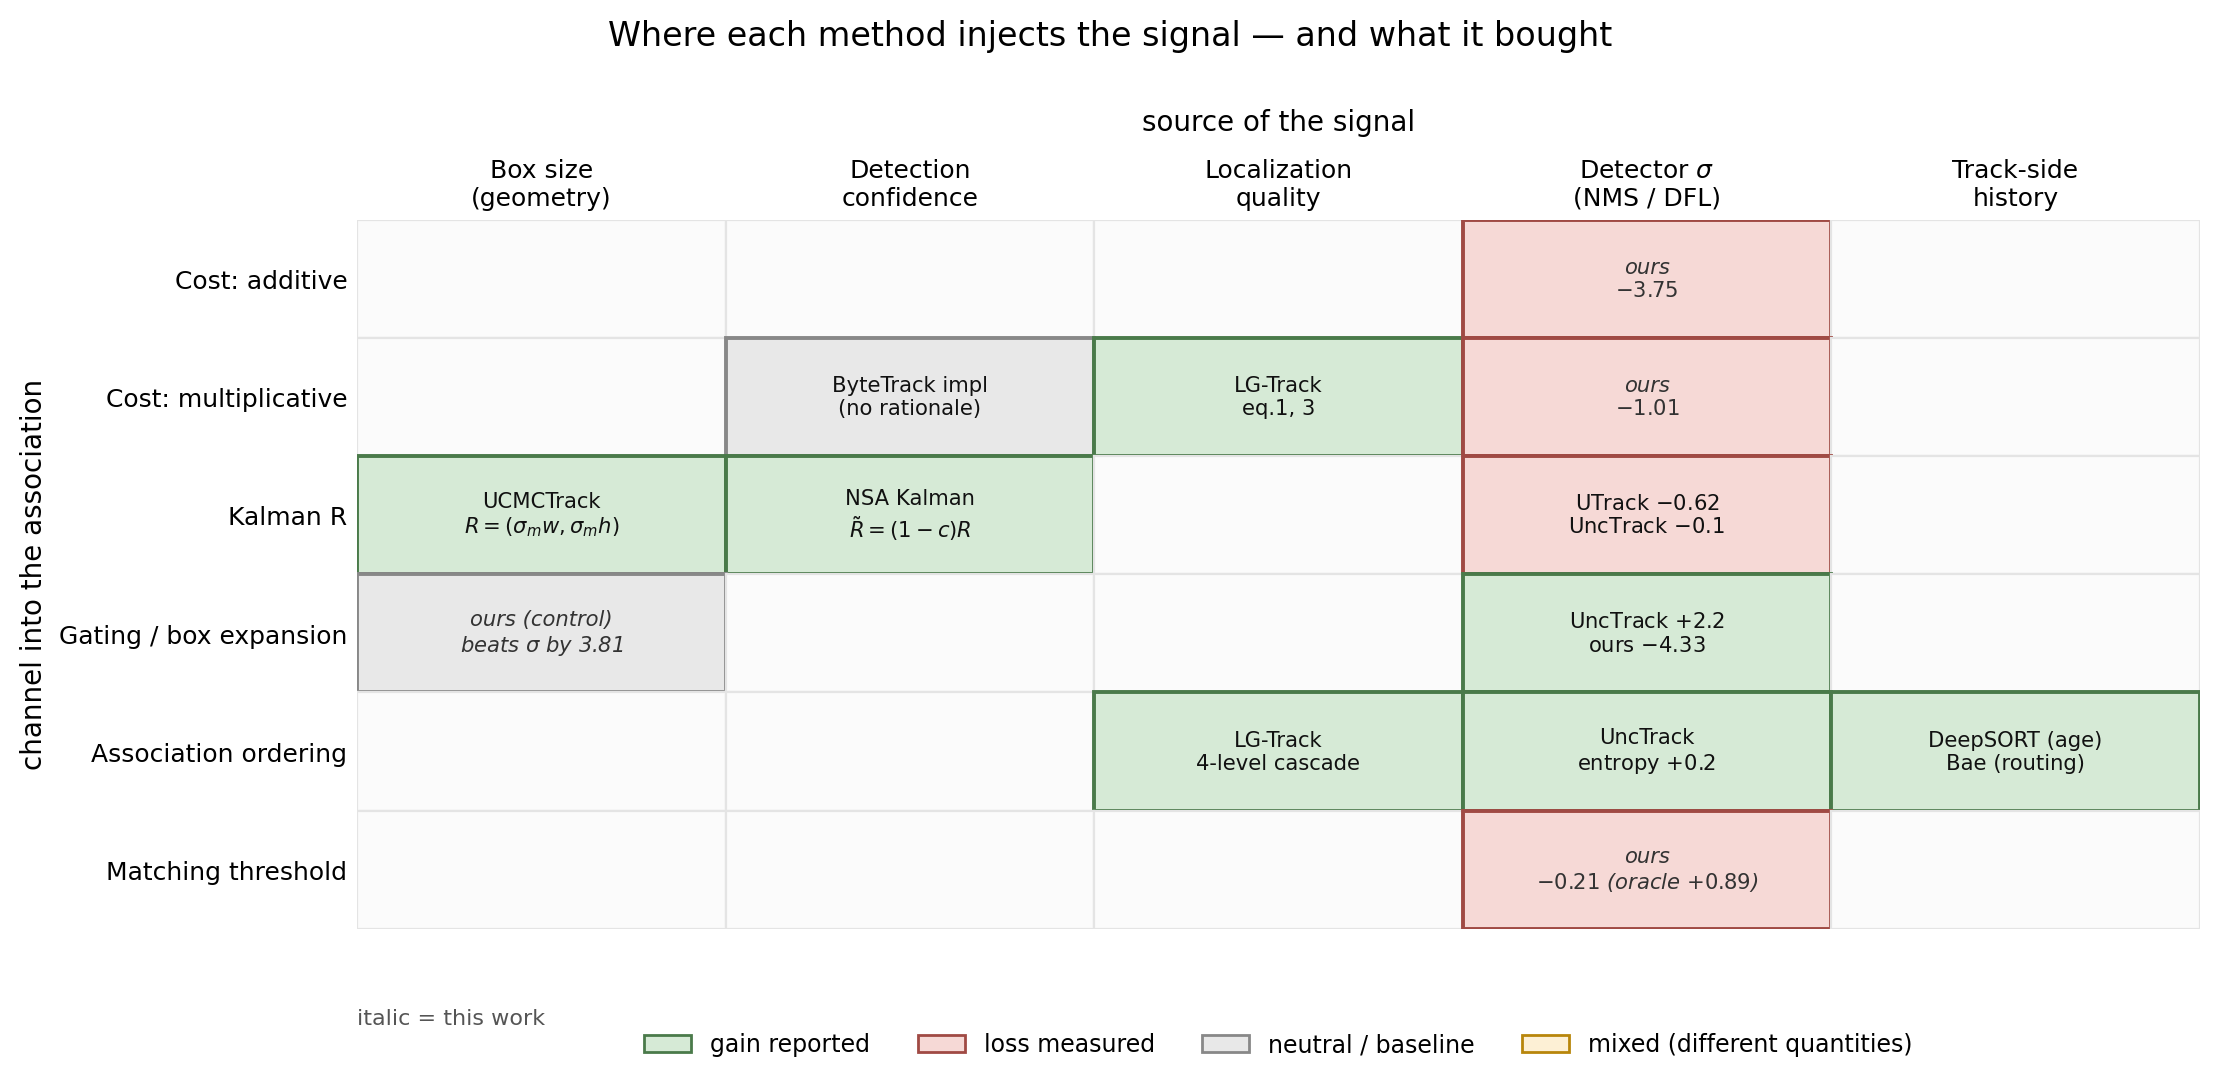
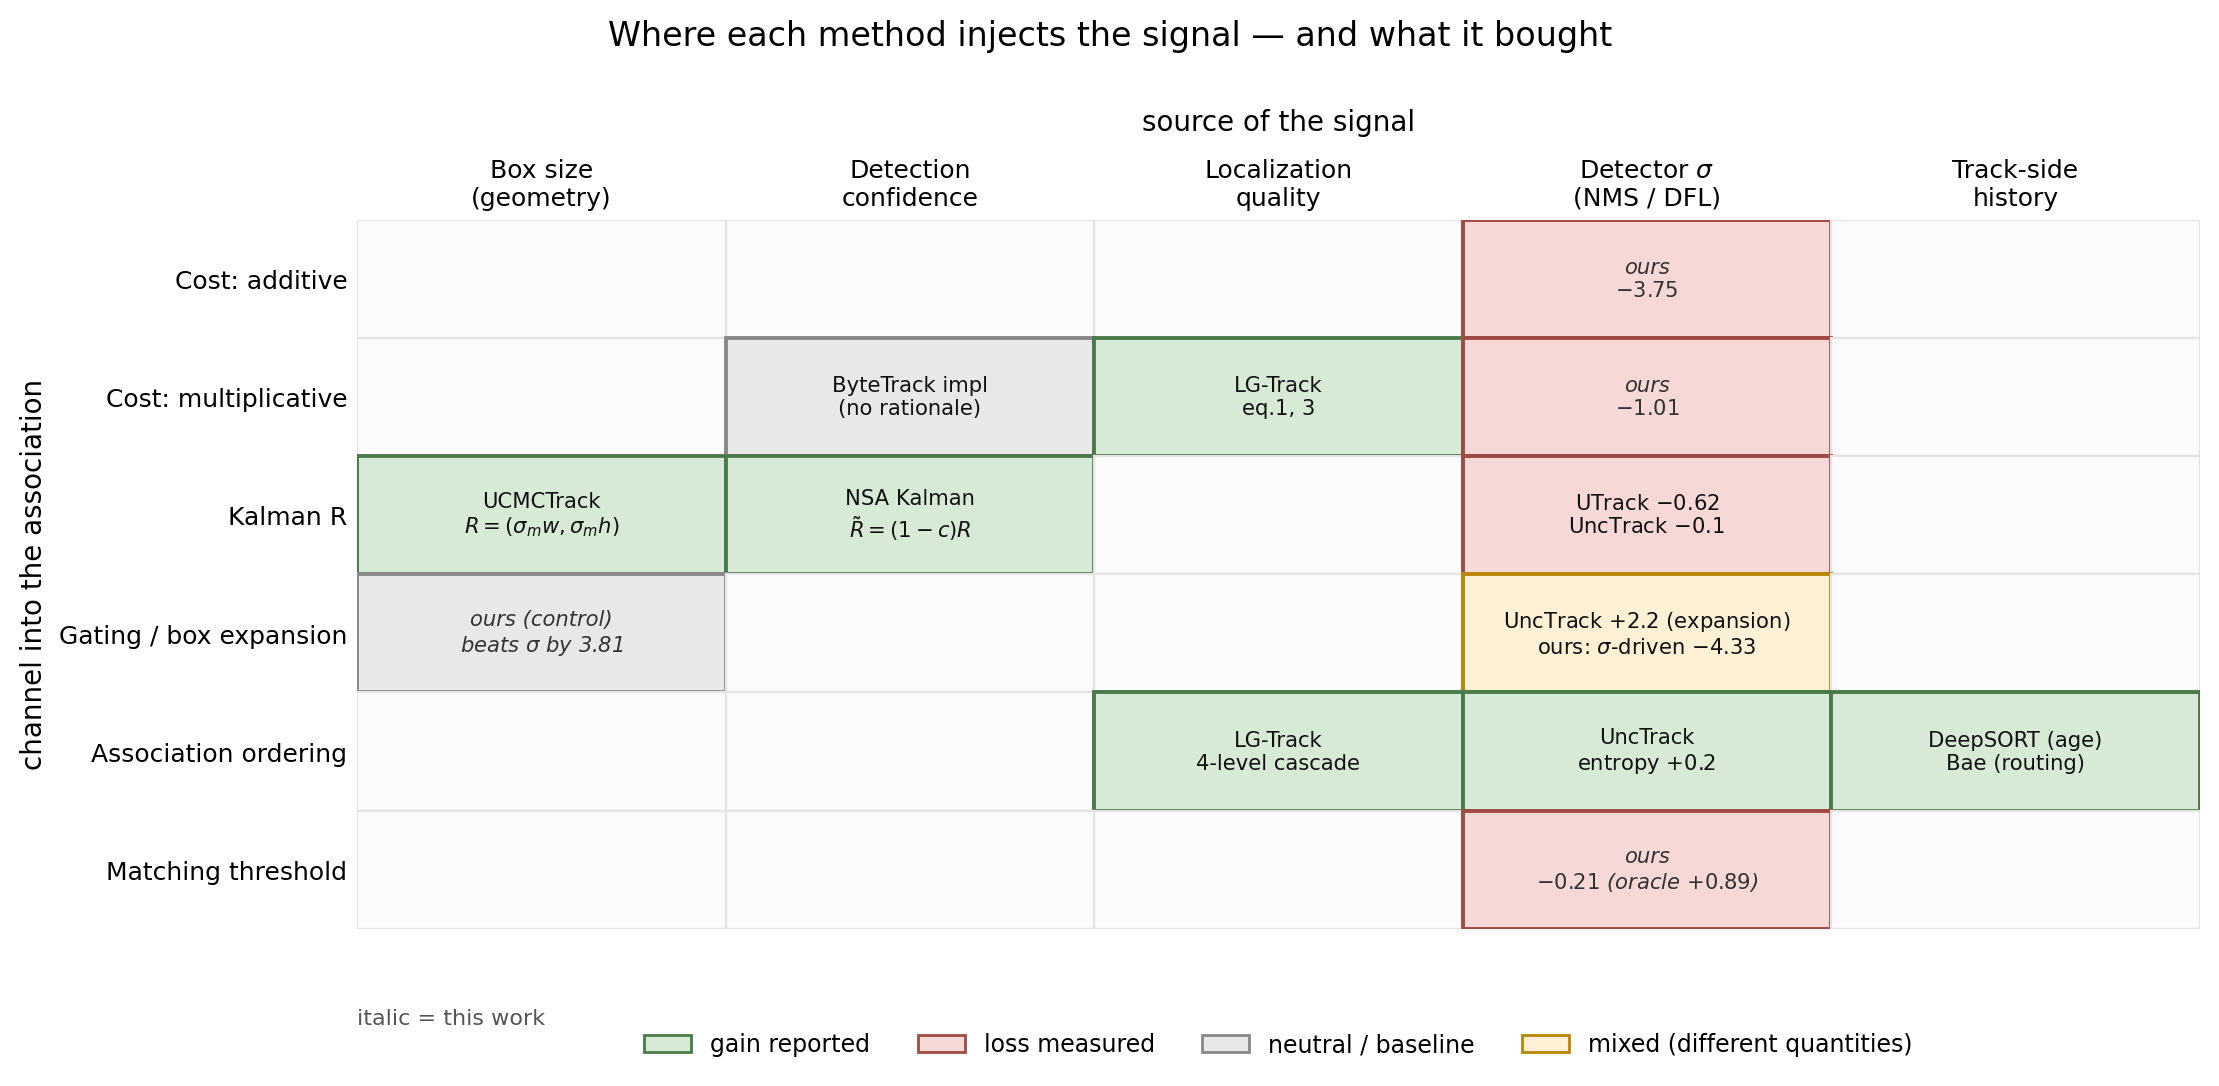
그림 1 정정 - 게이팅 x sigma 칸을 혼합으로 분리
UncTrack 의 +2.2 는 상자확장 전체의 이득이고 우리 -4.33 은 확장량을 맞췄을 때
sigma 로 정한 쪽이 크기로 정한 쪽보다 얼마나 나쁜가다. 다른 양을 한 칸에
초록으로 칠하면 "sigma 게이팅이 이득" 으로 읽힌다. 노란색 혼합 범주로 분리했다.

이스케이프 경고(\s)도 없앴다. -W error::SyntaxWarning 으로 확인.

Changed region(s): [[0.653, 0.5166, 0.8396, 0.6381]]

diff --git a/experiments/figures/fig_source_channel.py b/experiments/figures/fig_source_channel.py
@@ -53,7 +53,10 @@ CELLS = {
     (2, 1): ("NSA Kalman\n$\\tilde R=(1-c)R$", "+", False),
     (2, 3): ("UTrack $-0.62$\nUncTrack $-0.1$", "-", False),
     (3, 0): ("ours (control)\nbeats $\\sigma$ by 3.81", "0", True),
-    (3, 3): ("UncTrack $+2.2$\nours $-4.33$", "+", False),
+    # **한 칸에 두 이야기가 있다.** UncTrack 의 +2.2 는 상자확장 전체의 이득이고,
+    # 우리 -4.33 은 "확장량을 맞췄을 때 sigma 로 정한 쪽이 크기로 정한 쪽보다"
+    # 얼마나 나쁜가다. **다른 양이므로 같은 색으로 칠하면 오해를 부른다.**
+    (3, 3): ("UncTrack $+2.2$ (expansion)" + chr(10) + "ours: $" + chr(92) + "sigma$-driven $-4.33$", "m", False),
     (4, 2): ("LG-Track\n4-level cascade", "+", False),
     (4, 3): ("UncTrack\nentropy $+0.2$", "+", False),
     (4, 4): ("DeepSORT (age)\nBae (routing)", "+", False),
